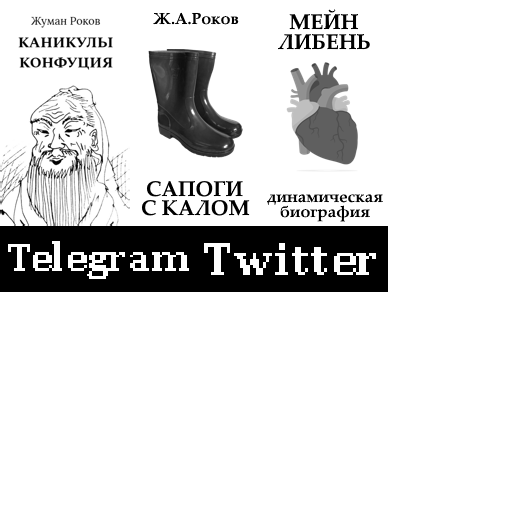
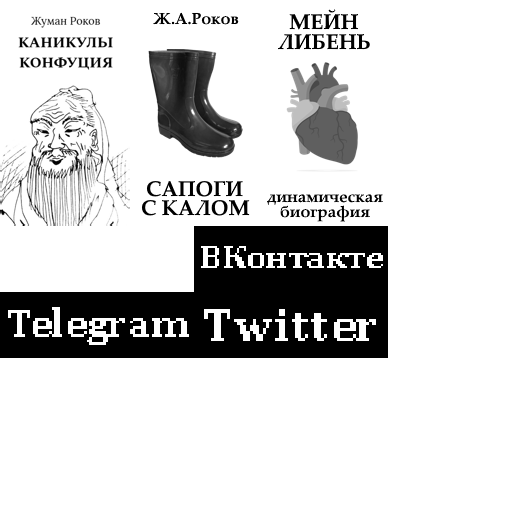
ччцч

Changed region(s): [[0.0, 0.4375, 0.7812, 0.7188]]

diff --git a/data.js b/data.js
@@ -1,1 +1,1 @@
-{"project": [null,"loading",[[0,true,false,false,false,false,false,false,false,false],[1,true,false,false,false,false,false,false,false,false],[2,false,true,true,true,true,true,true,true,false],[3,true,false,false,false,false,false,false,false,false]],[["t0",2,false,[],1,0,null,[["Default",5,false,1,0,false,8454399128852825,[["images/aa_loader-sheet0.png",163,0,0,64,64,1,0.5,0.5,[],[],4]]]],[["Fade",4,230121036078352]],false,true,7565621036311916,[],null],["t1",0,false,[],0,0,null,null,[],false,false,5762705725347726,[],null,[]],["t2",2,false,[],2,0,null,[["Default",5,false,1,0,false,3879650450236021,[["images/star-sheet0.png",92,0,0,4,4,1,0.5,0.5,[],[],4]]]],[["Bullet",5,8341287176116321],["Fade",4,5603860744645581]],false,false,6643320624842571,[],null],["t3",2,false,[],0,0,null,[["Default",30,false,1,0,false,1815826323959346,[["images/my_logo-sheet0.png",574,1,1,128,48,30,0.5,0.5208333134651184,[],[-0.5,0.2968750596046448,-0.419921875,0.4531247615814209,-0.5,0.4374997019767761],3],["images/my_logo-sheet0.png",574,1,51,128,48,1,0.5,0.5208333134651184,[],[-0.5,0.2968750596046448,-0.419921875,0.4531247615814209,-0.5,0.4374997019767761],3],["images/my_logo-sheet0.png",574,1,101,128,48,1,0.5,0.5208333134651184,[],[-0.5,0.2968750596046448,-0.419921875,0.4531247615814209,-0.5,0.4374997019767761],3],["images/my_logo-sheet0.png",574,1,151,128,48,1,0.5,0.5208333134651184,[],[-0.5,0.2968750596046448,-0.419921875,0.4531247615814209,-0.5,0.4374997019767761],3],["images/my_logo-sheet0.png",574,1,201,128,48,1,0.5,0.5208333134651184,[],[-0.5,0.2968750596046448,-0.419921875,0.4531247615814209,-0.5,0.4374997019767761],3],["images/my_logo-sheet1.png",649,1,1,128,48,1,0.5,0.5208333134651184,[],[-0.5,0.2968750596046448,-0.419921875,0.4531247615814209,-0.5,0.4374997019767761],3],["images/my_logo-sheet1.png",649,1,51,128,48,1,0.5,0.5208333134651184,[],[-0.5,0.2968750596046448,-0.419921875,0.4531247615814209,-0.5,0.4374997019767761],3]]]],[],false,false,1648019041967012,[],null],["t4",2,false,[2666308140973207],3,0,null,[["Default",5,false,1,0,false,5642068586678429,[["images/planet-sheet0.png",806,199,1,32,32,1,0.5,0.5,[],[],3]]],["opening",20,false,1,0,false,901120993463062,[["images/planet-sheet0.png",806,1,1,64,32,20,0.5,0.5,[],[-0.25,-0.5,0.25,-0.5,0.25,0.5,-0.25,0.5],3],["images/planet-sheet0.png",806,67,1,64,32,1,0.5,0.5,[],[-0.25,-0.5,0.25,-0.5,0.25,0.5,-0.25,0.5],3],["images/planet-sheet0.png",806,133,1,64,32,1,0.5,0.5,[],[-0.25,-0.5,0.25,-0.5,0.25,0.5,-0.25,0.5],3],["images/planet-sheet0.png",806,1,35,64,32,1,0.5,0.5,[],[-0.25,-0.5,0.25,-0.5,0.25,0.5,-0.25,0.5],3],["images/planet-sheet0.png",806,67,35,64,32,1,0.5,0.5,[],[-0.25,-0.5,0.25,-0.5,0.25,0.5,-0.25,0.5],3],["images/planet-sheet0.png",806,133,35,64,32,10,0.5,0.5,[],[-0.25,-0.5,0.25,-0.5,0.25,0.5,-0.25,0.5],3],["images/planet-sheet0.png",806,1,69,64,32,1,0.5,0.5,[],[-0.25,-0.5,0.25,-0.5,0.25,0.5,-0.25,0.5],3],["images/planet-sheet0.png",806,67,69,64,32,1,0.5,0.5,[],[-0.25,-0.5,0.25,-0.5,0.25,0.5,-0.25,0.5],3],["images/planet-sheet0.png",806,133,69,64,32,1,0.5,0.5,[],[-0.25,-0.5,0.25,-0.5,0.25,0.5,-0.25,0.5],3],["images/planet-sheet0.png",806,1,103,64,32,1,0.5,0.5,[],[-0.25,-0.5,0.25,-0.5,0.25,0.5,-0.25,0.5],3],["images/planet-sheet0.png",806,67,103,64,32,1,0.5,0.5,[],[-0.25,-0.5,0.25,-0.5,0.25,0.5,-0.25,0.5],3],["images/planet-sheet0.png",806,133,103,64,32,1,0.5,0.5,[],[-0.25,-0.5,0.25,-0.5,0.25,0.5,-0.25,0.5],3]]]],[["Rotate",6,7882863819975989],["Fade",4,5588504955080954],["Sine",7,6177368727191248]],false,false,2073488256400279,[],null],["t5",1,false,[],0,0,null,null,[],false,false,783277475132894,[],null,[1]],["t6",2,false,[],4,0,null,[["Default",0,false,1,0,false,1710979898604802,[["images/button-sheet0.png",1041,1,1,160,32,1,0.5,0.5,[],[],3],["images/button-sheet0.png",1041,1,35,160,32,1,0.5,0.5,[],[],3],["images/button-sheet0.png",1041,1,69,160,32,1,0.5,0.5,[],[],3],["images/button-sheet0.png",1041,1,103,160,32,1,0.5,0.5,[],[],3]]]],[["Sine",7,7618187438832246],["Sine2",7,7553923391117555],["Fade",4,9751686245999253],["Sine3",7,1522523508959863]],false,false,6427844642481601,[],null],["t7",2,false,[],1,0,null,[["Default",5,false,1,0,false,4296523469425415,[["images/blackover-sheet0.png",155,0,0,250,250,1,0.5,0.5,[],[],4]]]],[["Fade",4,1413841151768888]],false,false,8796544220060297,[],null],["t8",2,false,[],0,0,null,[["Default",0,false,1,0,false,7951123118877372,[["images/anybg-sheet0.png",15142,515,1,170,182,1,0.5,0.5,[],[],0],["images/anybg-sheet0.png",15142,1,1,512,512,1,0.5,0.5,[],[],0],["images/anybg-sheet0.png",15142,687,1,128,128,1,0,0,[],[],0]]]],[],false,false,4566385857849976,[],null],["t9",2,false,[],0,0,null,[["Default",4,true,1,0,true,5534447228484516,[["images/back-sheet0.png",135,0,0,16,16,1,0.5,0.5,[],[],3],["images/back-sheet1.png",135,0,0,16,16,1,0.5,0.5,[],[],3],["images/back-sheet2.png",136,0,0,16,16,1,0.5,0.5,[],[],3]]]],[],false,false,6681744122020736,[],null],["t10",2,false,[7029265083636054],2,0,null,[["Default",0,false,1,0,false,8631434046410377,[["images/book-sheet1.png",47064,1,1,128,224,1,0.5,0.5,[],[],0],["images/book-sheet1.png",47064,131,1,128,224,1,0.5,0.5,[],[],0],["images/book-sheet1.png",47064,261,1,128,224,1,0.5,0.5,[],[],0],["images/book-sheet0.png",39634,1,131,416,96,1,0.5,0.5,[],[],0],["images/book-sheet0.png",39634,1,229,416,96,1,0.5,0.5,[],[],0],["images/book-sheet0.png",39634,1,327,416,64,1,0.5,0.5,[],[],0],["images/book-sheet0.png",39634,1,1,416,128,1,0.5,0.5,[],[],0],["images/book-sheet0.png",39634,419,56,64,64,1,0.5,0.5,[],[],0],["images/book-sheet0.png",39634,1,393,192,64,1,0.5,0.5,[],[],0],["images/book-sheet0.png",39634,195,393,192,64,1,0.5,0.5,[],[],0],["images/book-sheet1.png",47064,1,227,192,64,1,0.5,0.5,[],[],0],["images/book-sheet1.png",47064,195,227,192,64,1,0.5,0.5,[],[],0],["images/book-sheet0.png",39634,419,1,85,53,1,0,0,[],[],0]]]],[["Sine",7,3089266083000039],["Sine2",7,9152650011442802]],false,false,7613272270891396,[],null],["t11",3,false,[],0,0,null,null,[],false,false,7296777027892499,[],null,[]]],[],[["loading",512,512,true,"loading_sheet",940938462881207,[["Layer 0",0,2088912696170907,true,[0,0,0],false,1,1,1,false,false,1,0,0,[[[256,256,0,160,160,0,0,1,0.5,0.5,0,0,[]],0,0,[],[[0,0,0,1,1]],[0,"Default",0,1]]],[]]],[],[]],["site",512,512,true,"site_sheet",1923343093844538,[["Layer 0",0,7378201580079235,true,[0,0,0],false,0,0,1,false,false,1,0,0,[[[256,256,0,4,4,0,0,1,0.5,0.5,0,0,[]],2,2,[],[[400,0,0,0,0,1],[1,0,3,1,1]],[0,"Default",0,1]]],[]],["Layer 1",1,61628298531695,true,[255,255,255],true,0,0,1,false,false,1,0,0,[[[256,448,0,256,96,0,0,1,0.5,0.5208333134651184,0,0,[]],3,4,[],[],[0,"Default",0,1]]],[]],["Layer 2",2,4696877327140774,true,[255,255,255],true,1,1,1,false,false,1,0,0,[[[254,226,0,256,256,0,0,1,0.5,0.5,0,0,[]],4,5,[[1]],[[50,0],[1,2,0,0,0],[1,1,0,4,0,0,0,32,0]],[0,"Default",0,1]]],[]],["Layer 3",3,2217885186273795,true,[255,255,255],true,1,1,1,false,false,1,0,0,[[[256,160,0,224,64,0,0,1,0.5,0.5,0,0,[]],6,7,[],[[1,0,0,1,1,1,1,4,0],[1,1,0,1,1,1,1,4,0],[1,0.2,0,0,1],[1,5,0,4,1,1,1,2,0]],[1,"Default",0,1]],[[256,256,0,224,64,0,0,1,0.5,0.5,0,0,[]],6,8,[],[[1,0,0,1,1,1,1,4,0],[1,1,0,1,1,1,1,4,0],[1,0.2,0,0,1],[1,5,0,4,1,1,1,2,0]],[1,"Default",1,1]],[[256,64,0,0,64,0,0,1,0.5,0.5,0,0,[]],6,9,[],[[1,0,0,1,1,1,1,4,0],[1,1,0,1,1,1,1,4,0],[1,0.2,0,0,1],[1,5,0,4,1,1,1,2,0]],[1,"Default",2,1]],[[256,352,0,0,64,0,0,1,0.5,0.5,0,0,[]],6,10,[],[[1,0,0,1,1,1,1,4,0],[1,1,0,1,1,1,1,4,0],[1,0.2,0,0,1],[1,5,0,4,1,1,1,2,0]],[1,"Default",3,1]]],[]],["black_screen",4,744652617672437,true,[255,255,255],true,1,1,1,false,false,1,0,0,[[[256,256,0,2143.044677734375,2143.044677734375,0,0,1,0.5,0.5,0,0,[]],7,11,[],[[0,0.5,0,0,0]],[1,"Default",0,1]]],[]]],[],[]],["drugoe",512,512,true,"drugoe_sheet",9708333793712018,[["Layer 0",0,537765921538014,true,[0,0,0],false,1,1,1,false,false,1,0,0,[[[256,128,0,170,182,0,0,1,0.5,0.5,0,0,[]],8,12,[],[],[0,"Default",0,1]]],[]],["ob",1,6459113466757727,true,[255,255,255],true,1,1,1,false,false,1,0,0,[[[256,448,0,64,64,0,0,1,0.5,0.5,0,0,[]],9,13,[],[],[0,"Default",0,1]],[[128,288,0,192,64,0,0,1,0.5,0.5,0,0,[]],10,30,[["https://www.youtube.com/channel/UCy9mYWnveelEagJMlnLX6OQ?view_as=subscriber"]],[[1,0,0,4,1,1,1,4,0],[1,1,0,3,1,1,1,3,0]],[0,"Default",8,1]],[[128,352,0,192,64,0,0,1,0.5,0.5,0,0,[]],10,31,[["https://vk.com/jodead"]],[[1,0,0,4,1,1,1,4,0],[1,1,0,3,1,1,1,3,0]],[0,"Default",9,1]],[[384,288,0,192,64,0,0,1,0.5,0.5,0,0,[]],10,32,[["https://msng.link/tg/ddnvd"]],[[1,0,0,4,1,1,1,4,0],[1,1,0,3,1,1,1,3,0]],[0,"Default",10,1]],[[384,352,0,192,64,0,0,1,0.5,0.5,0,0,[]],10,33,[["https://twitter.com/ddnvd"]],[[1,0,0,4,1,1,1,4,0],[1,1,0,3,1,1,1,3,0]],[0,"Default",11,1]]],[]]],[],[]],["games",512,512,true,"drugoe_sheet",3315019951243166,[["Layer 0",0,3051115471271754,true,[0,0,0],false,1,1,1,false,false,1,0,0,[[[0,0,0,512,512,0,0,1,0,0,0,0,[]],8,28,[],[],[0,"Default",2,1]]],[]],["ob",1,613426991718667,true,[255,255,255],true,1,1,1,false,false,1,0,0,[[[256,448,0,64,64,0,0,1,0.5,0.5,0,0,[]],9,20,[],[],[0,"Default",0,1]],[[256,64,0,224,64,0,0,1,0.5,0.5,0,0,[]],6,19,[],[[1,0,0,1,1,1,1,4,0],[1,1,0,1,1,1,1,4,0],[1,0.2,0,0,1],[1,5,0,4,1,1,1,2,0]],[0,"Default",0,1]],[[256,192,0,416,96,0,0,1,0.5,0.5,0,0,[]],10,21,[["https://ddnvd.ru/zhukarcade/"]],[[1,0,0,4,1,1,1,4,0],[1,1,0,3,1,1,1,3,0]],[0,"Default",3,1]],[[256,320,0,416,96,0,0,1,0.5,0.5,0,0,[]],10,22,[["https://play.google.com/store/search?q=ddnvd"]],[[1,0,0,4,1,1,1,4,0],[1,1,0,3,1,1,1,3,0]],[0,"Default",4,1]],[[384,416,0,96,64,0,0,1,0,0,0,0,[]],10,34,[["https://ddnvd.ru/old/"]],[[1,0,0,4,1,1,1,4,0],[1,1,0,3,1,1,1,3,0]],[0,"Default",12,1]]],[]]],[],[]],["music",512,512,true,"drugoe_sheet",8711086432472418,[["Layer 0",0,439642726240153,true,[0,0,0],false,1,1,1,false,false,1,0,0,[[[256,256,0,512,512,0,0,1,0.5,0.5,0,0,[]],8,29,[],[],[0,"Default",1,1]]],[]],["ob",1,8485500428259198,true,[255,255,255],true,1,1,1,false,false,1,0,0,[[[256,448,0,64,64,0,0,1,0.5,0.5,0,0,[]],9,23,[],[],[0,"Default",0,1]],[[256,64,0,224,64,0,0,1,0.5,0.5,0,0,[]],6,24,[],[[1,0,0,1,1,1,1,4,0],[1,1,0,1,1,1,1,4,0],[1,0.2,0,0,1],[1,5,0,4,1,1,1,2,0]],[0,"Default",1,1]],[[256,208,0,416,128,0,0,1,0.5,0.5,0,0,[]],10,25,[["https://vk.com/deafproject"]],[[1,0,0,4,1,1,1,4,0],[1,1,0,3,1,1,1,3,0]],[0,"Default",6,1]],[[256,336,0,416,64,0,0,1,0.5,0.5,0,0,[]],10,26,[["https://pastebin.com/9dRAHfKJ"]],[[1,0,0,4,1,1,1,4,0],[1,1,0,3,1,1,1,3,0]],[0,"Default",5,1]]],[]]],[],[]],["books",512,512,true,"drugoe_sheet",8559596989540712,[["Layer 0",0,3878335870959353,true,[0,0,0],false,1,1,1,false,false,1,0,0,[[[256,256,0,512,512,0,0,1,0.5,0.5,0,0,[]],8,3,[],[],[0,"Default",1,1]]],[]],["ob",1,5419703381973998,true,[255,255,255],true,1,1,1,false,false,1,0,0,[[[256,448,0,64,64,0,0,1,0.5,0.5,0,0,[]],9,14,[],[],[0,"Default",0,1]],[[256,64,0,224,64,0,0,1,0.5,0.5,0,0,[]],6,15,[],[[1,0,0,1,1,1,1,4,0],[1,1,0,1,1,1,1,4,0],[1,0.2,0,0,1],[1,5,0,4,1,1,1,2,0]],[0,"Default",2,1]],[[96,256,0,128,224,0,0,1,0.5,0.5,0,0,[]],10,16,[["https://docs.google.com/document/d/13rNceuEguCrKBW3y0RdxGLph8T_nc5gm9YEI_00nYrw/edit"]],[[1,0,0,4,1,1,1,4,0],[1,1,0,3,1,1,1,3,0]],[0,"Default",0,1]],[[256,256,0,128,224,0,0,1,0.5,0.5,0,0,[]],10,17,[["https://docs.google.com/document/d/1WUNIYRmilnUhSXODjmWDQ0yRBGG9C_SpARjOsBhil-c/edit?usp=sharing"]],[[1,0,0,4,1,1,1,4,0],[1,1,0,3,1,1,1,3,0]],[0,"Default",1,1]],[[416,256,0,128,224,0,0,1,0.5,0.5,0,0,[]],10,18,[["https://docs.google.com/document/d/1-B_XW2O_FJdJJEQwsfiWchsW8DDG_PyH-Mn0FzfeeZ0/edit?usp=sharing"]],[[1,0,0,4,1,1,1,4,0],[1,1,0,3,1,1,1,3,0]],[0,"Default",2,1]],[[448,448,0,64,64,0,0,1,0.5,0.5,0,0,[]],10,27,[["https://vk.com/public149256420"]],[[1,0,0,4,1,1,1,4,0],[1,1,0,3,1,1,1,3,0]],[0,"Default",7,1]]],[]]],[],[]]],[["loading_sheet",[[0,null,false,null,9426138628011278,[[-1,8,null,1,false,false,false,6682472123666694,false]],[[0,9,"Fade",9833363571418112,false],[-1,10,null,5303707077641885,false,[[0,[0,1]]]],[-1,11,null,5774534960747871,false,[[6,"site"]]]]]]],["site_sheet",[[0,null,false,null,7434988319287601,[[-1,12,null,0,false,false,false,33561280694541,false,[[0,[1,0.1]]]]],[[-1,13,null,6078444760172201,false,[[4,2],[5,[0,0]],[0,[0,256]],[0,[0,256]]]],[2,14,"Bullet",3391096075051863,false,[[0,[19,15,[[0,360]]]]]],[3,16,null,7241134128946158,false,[[0,[5,[19,17,[[0,1]]],[0,64]]]]]]],[0,null,false,null,2158996859578908,[[5,18,null,1,false,false,false,8102944554207508,false,[[4,4]]],[4,19,null,0,false,false,false,4280542000655148,false,[[10,0],[8,0],[7,[0,1]]]]],[[4,20,null,334444500106774,false,[[10,0],[7,[0,0]]]],[4,21,"Rotate",4900428004685146,false,[[0,[0,0]]]],[4,22,null,9425523277740117,false,[[1,[2,"opening"]],[3,1]]],[4,23,null,7859302191913257,false,[[0,[19,24,[[20,4,25,false,null]]]]]]]],[0,null,false,null,8381782072302254,[[-1,12,null,0,false,false,false,7051222880429492,false,[[0,[1,0.01]]]],[4,19,null,0,false,false,false,3499860151452663,false,[[10,0],[8,0],[7,[0,0]]]],[4,26,null,0,false,true,false,1906479789867394,false,[[0,[0,-6]],[0,[0,6]]]]],[[4,27,null,9715932026418031,false,[[0,[0,4]],[0,[0,0]]]]]],[0,null,false,null,4655002903093343,[[4,28,null,0,false,false,false,2950527411150826,false,[[8,0],[0,[0,4]]]]],[[6,29,null,6343369461174233,false,[[3,1]]],[6,30,"Fade",863771168803267,false]]],[0,null,false,null,4366016439987548,[[5,18,null,1,false,false,false,5051901105976351,false,[[4,6]]],[6,31,null,0,false,false,false,9442970019634302,false],[4,19,null,0,false,false,false,663454159335689,false,[[10,0],[8,0],[7,[0,0]]]]],[[7,30,"Fade",627226503304119,false],[7,29,null,4100729938978089,false,[[3,1]]],[4,20,null,9038558784550612,false,[[10,0],[7,[0,2]]]]],[[0,null,false,null,8969205918949026,[[6,28,null,0,false,false,false,1591198244832171,false,[[8,0],[0,[0,3]]]]],[[-1,10,null,3802870171153272,false,[[0,[1,0.5]]]],[-1,11,null,117448214542048,false,[[6,"drugoe"]]]]],[0,null,false,null,3921692506869566,[[6,28,null,0,false,false,false,2740483348972805,false,[[8,0],[0,[0,2]]]]],[[-1,10,null,9227625676143564,false,[[0,[1,0.5]]]],[-1,11,null,4319171550472879,false,[[6,"books"]]]]],[0,null,false,null,4033347003165066,[[6,28,null,0,false,false,false,7656841684129699,false,[[8,0],[0,[0,0]]]]],[[-1,10,null,9741920314818663,false,[[0,[1,0.5]]]],[-1,11,null,9545014982045556,false,[[6,"games"]]]]],[0,null,false,null,5277949849603006,[[6,28,null,0,false,false,false,3696214006104619,false,[[8,0],[0,[0,1]]]]],[[-1,10,null,8405723917473309,false,[[0,[1,0.5]]]],[-1,11,null,9172687073533843,false,[[6,"music"]]]]]]],[0,null,false,null,5512390662672317,[[5,32,null,1,false,false,false,254589214815326,false,[[4,3]]]],[],[[0,null,false,null,3337054635590363,[[6,28,null,0,false,false,false,3560435136007253,false,[[8,0],[0,[0,2]]]]],[[6,33,null,7055639012946563,false,[[0,[0,224]]]]]],[0,null,false,null,2969390087457419,[[6,28,null,0,false,false,false,1659078177607629,false,[[8,0],[0,[0,3]]]]],[[6,33,null,8322442532837875,false,[[0,[0,224]]]]]]]],[0,null,false,null,1525298088793277,[],[]]]],["drugoe_sheet",[[0,null,false,null,353514858777968,[[5,18,null,1,false,false,false,4422140143667807,false,[[4,9]]]],[[-1,11,null,1056858561749537,false,[[6,"site"]]]]],[0,null,false,null,5790980359856458,[[5,18,null,1,false,false,false,8279613062296092,false,[[4,10]]]],[[1,34,null,9585649882638199,false,[[1,[21,10,true,null,0]],[3,0]]]]]]]],[],"media/",false,512,512,3,true,false,true,"1.1",true,true,3,0,36,false,true,1,true,"ddnvd homepage",0,[]]}
+{"project": [null,"loading",[[0,true,false,false,false,false,false,false,false,false],[1,true,false,false,false,false,false,false,false,false],[2,true,false,false,false,false,false,false,false,false],[3,false,true,true,true,true,true,true,true,false]],[["t0",3,false,[],1,0,null,[["Default",5,false,1,0,false,8454399128852825,[["images/aa_loader-sheet0.png",163,0,0,64,64,1,0.5,0.5,[],[],4]]]],[["Fade",4,230121036078352]],false,true,7565621036311916,[],null],["t1",1,false,[],0,0,null,null,[],false,false,5762705725347726,[],null,[]],["t2",3,false,[],2,0,null,[["Default",5,false,1,0,false,3879650450236021,[["images/star-sheet0.png",92,0,0,4,4,1,0.5,0.5,[],[],4]]]],[["Bullet",5,8341287176116321],["Fade",4,5603860744645581]],false,false,6643320624842571,[],null],["t3",3,false,[],0,0,null,[["Default",30,false,1,0,false,1815826323959346,[["images/my_logo-sheet0.png",574,1,1,128,48,30,0.5,0.5208333134651184,[],[-0.5,0.2968747019767761,-0.4199219048023224,0.4531247019767761,-0.5,0.4374997019767761],3],["images/my_logo-sheet0.png",574,1,51,128,48,1,0.5,0.5208333134651184,[],[-0.5,0.2968747019767761,-0.4199219048023224,0.4531247019767761,-0.5,0.4374997019767761],3],["images/my_logo-sheet0.png",574,1,101,128,48,1,0.5,0.5208333134651184,[],[-0.5,0.2968747019767761,-0.4199219048023224,0.4531247019767761,-0.5,0.4374997019767761],3],["images/my_logo-sheet0.png",574,1,151,128,48,1,0.5,0.5208333134651184,[],[-0.5,0.2968747019767761,-0.4199219048023224,0.4531247019767761,-0.5,0.4374997019767761],3],["images/my_logo-sheet0.png",574,1,201,128,48,1,0.5,0.5208333134651184,[],[-0.5,0.2968747019767761,-0.4199219048023224,0.4531247019767761,-0.5,0.4374997019767761],3],["images/my_logo-sheet1.png",649,1,1,128,48,1,0.5,0.5208333134651184,[],[-0.5,0.2968747019767761,-0.4199219048023224,0.4531247019767761,-0.5,0.4374997019767761],3],["images/my_logo-sheet1.png",649,1,51,128,48,1,0.5,0.5208333134651184,[],[-0.5,0.2968747019767761,-0.4199219048023224,0.4531247019767761,-0.5,0.4374997019767761],3]]]],[],false,false,1648019041967012,[],null],["t4",3,false,[2666308140973207],3,0,null,[["Default",5,false,1,0,false,5642068586678429,[["images/planet-sheet0.png",806,199,1,32,32,1,0.5,0.5,[],[],3]]],["opening",20,false,1,0,false,901120993463062,[["images/planet-sheet0.png",806,1,1,64,32,20,0.5,0.5,[],[-0.25,-0.5,0.25,-0.5,0.25,0.5,-0.25,0.5],3],["images/planet-sheet0.png",806,67,1,64,32,1,0.5,0.5,[],[-0.25,-0.5,0.25,-0.5,0.25,0.5,-0.25,0.5],3],["images/planet-sheet0.png",806,133,1,64,32,1,0.5,0.5,[],[-0.25,-0.5,0.25,-0.5,0.25,0.5,-0.25,0.5],3],["images/planet-sheet0.png",806,1,35,64,32,1,0.5,0.5,[],[-0.25,-0.5,0.25,-0.5,0.25,0.5,-0.25,0.5],3],["images/planet-sheet0.png",806,67,35,64,32,1,0.5,0.5,[],[-0.25,-0.5,0.25,-0.5,0.25,0.5,-0.25,0.5],3],["images/planet-sheet0.png",806,133,35,64,32,10,0.5,0.5,[],[-0.25,-0.5,0.25,-0.5,0.25,0.5,-0.25,0.5],3],["images/planet-sheet0.png",806,1,69,64,32,1,0.5,0.5,[],[-0.25,-0.5,0.25,-0.5,0.25,0.5,-0.25,0.5],3],["images/planet-sheet0.png",806,67,69,64,32,1,0.5,0.5,[],[-0.25,-0.5,0.25,-0.5,0.25,0.5,-0.25,0.5],3],["images/planet-sheet0.png",806,133,69,64,32,1,0.5,0.5,[],[-0.25,-0.5,0.25,-0.5,0.25,0.5,-0.25,0.5],3],["images/planet-sheet0.png",806,1,103,64,32,1,0.5,0.5,[],[-0.25,-0.5,0.25,-0.5,0.25,0.5,-0.25,0.5],3],["images/planet-sheet0.png",806,67,103,64,32,1,0.5,0.5,[],[-0.25,-0.5,0.25,-0.5,0.25,0.5,-0.25,0.5],3],["images/planet-sheet0.png",806,133,103,64,32,1,0.5,0.5,[],[-0.25,-0.5,0.25,-0.5,0.25,0.5,-0.25,0.5],3]]]],[["Rotate",6,7882863819975989],["Fade",4,5588504955080954],["Sine",7,6177368727191248]],false,false,2073488256400279,[],null],["t5",0,false,[],0,0,null,null,[],false,false,783277475132894,[],null,[1]],["t6",3,false,[],4,0,null,[["Default",0,false,1,0,false,1710979898604802,[["images/button-sheet0.png",1003,1,1,160,32,1,0.5,0.5,[],[],3],["images/button-sheet0.png",1003,1,35,160,32,1,0.5,0.5,[],[],3],["images/button-sheet0.png",1003,1,69,160,32,1,0.5,0.5,[],[],3],["images/button-sheet0.png",1003,1,103,160,32,1,0.5,0.5,[],[],3]]]],[["Sine",7,7618187438832246],["Sine2",7,7553923391117555],["Fade",4,9751686245999253],["Sine3",7,1522523508959863]],false,false,6427844642481601,[],null],["t7",3,false,[],1,0,null,[["Default",5,false,1,0,false,4296523469425415,[["images/blackover-sheet0.png",155,0,0,250,250,1,0.5,0.5,[],[],4]]]],[["Fade",4,1413841151768888]],false,false,8796544220060297,[],null],["t8",3,false,[],0,0,null,[["Default",0,false,1,0,false,7951123118877372,[["images/anybg-sheet0.png",15142,515,1,170,182,1,0.5,0.5,[],[],0],["images/anybg-sheet0.png",15142,1,1,512,512,1,0.5,0.5,[],[],0],["images/anybg-sheet0.png",15142,687,1,128,128,1,0,0,[],[],0]]]],[],false,false,4566385857849976,[],null],["t9",3,false,[],0,0,null,[["Default",4,true,1,0,true,5534447228484516,[["images/back-sheet0.png",135,0,0,16,16,1,0.5,0.5,[],[],3],["images/back-sheet1.png",135,0,0,16,16,1,0.5,0.5,[],[],3],["images/back-sheet2.png",136,0,0,16,16,1,0.5,0.5,[],[],3]]]],[],false,false,6681744122020736,[],null],["t10",3,false,[7029265083636054],2,0,null,[["Default",0,false,1,0,false,8631434046410377,[["images/book-sheet1.png",47682,1,1,128,224,1,0.5,0.5,[],[],0],["images/book-sheet1.png",47682,131,1,128,224,1,0.5,0.5,[],[],0],["images/book-sheet1.png",47682,261,1,128,224,1,0.5,0.5,[],[],0],["images/book-sheet0.png",40267,1,131,416,96,1,0.5,0.5,[],[],0],["images/book-sheet0.png",40267,1,229,416,96,1,0.5,0.5,[],[],0],["images/book-sheet0.png",40267,1,327,416,64,1,0.5,0.5,[],[],0],["images/book-sheet0.png",40267,1,1,416,128,1,0.5,0.5,[],[],0],["images/book-sheet0.png",40267,419,56,64,64,1,0.5,0.5,[],[],0],["images/book-sheet1.png",47682,1,227,192,64,1,0.5,0.5,[],[],0],["images/book-sheet1.png",47682,195,227,192,64,1,0.5,0.5,[],[],0],["images/book-sheet1.png",47682,1,293,192,64,1,0.5,0.5,[],[],0],["images/book-sheet1.png",47682,195,293,192,64,1,0.5,0.5,[],[],0],["images/book-sheet0.png",40267,419,1,85,53,1,0,0,[],[],0],["images/book-sheet0.png",40267,1,393,416,64,1,0.5,0.5,[],[],0]]]],[["Sine",7,3089266083000039],["Sine2",7,9152650011442802]],false,false,7613272270891396,[],null],["t11",2,false,[],0,0,null,null,[],false,false,7296777027892499,[],null,[]]],[],[["loading",512,512,true,"loading_sheet",940938462881207,[["Layer 0",0,2088912696170907,true,[0,0,0],false,1,1,1,false,false,1,0,0,[[[256,256,0,160,160,0,0,1,0.5,0.5,0,0,[]],0,0,[],[[0,0,0,1,1]],[0,"Default",0,1]]],[]]],[],[]],["site",512,512,true,"site_sheet",1923343093844538,[["Layer 0",0,7378201580079235,true,[0,0,0],false,0,0,1,false,false,1,0,0,[[[256,256,0,4,4,0,0,1,0.5,0.5,0,0,[]],2,2,[],[[400,0,0,0,0,1],[1,0,3,1,1]],[0,"Default",0,1]]],[]],["Layer 1",1,61628298531695,true,[255,255,255],true,0,0,1,false,false,1,0,0,[[[256,448,0,256,96,0,0,1,0.5,0.5208333134651184,0,0,[]],3,4,[],[],[0,"Default",0,1]]],[]],["Layer 2",2,4696877327140774,true,[255,255,255],true,1,1,1,false,false,1,0,0,[[[254,226,0,256,256,0,0,1,0.5,0.5,0,0,[]],4,5,[[1]],[[50,0],[1,2,0,0,0],[1,1,0,4,0,0,0,32,0]],[0,"Default",0,1]]],[]],["Layer 3",3,2217885186273795,true,[255,255,255],true,1,1,1,false,false,1,0,0,[[[256,160,0,224,64,0,0,1,0.5,0.5,0,0,[]],6,7,[],[[1,0,0,1,1,1,1,4,0],[1,1,0,1,1,1,1,4,0],[1,0.2,0,0,1],[1,5,0,4,1,1,1,2,0]],[1,"Default",0,1]],[[256,256,0,224,64,0,0,1,0.5,0.5,0,0,[]],6,8,[],[[1,0,0,1,1,1,1,4,0],[1,1,0,1,1,1,1,4,0],[1,0.2,0,0,1],[1,5,0,4,1,1,1,2,0]],[1,"Default",1,1]],[[256,64,0,0,64,0,0,1,0.5,0.5,0,0,[]],6,9,[],[[1,0,0,1,1,1,1,4,0],[1,1,0,1,1,1,1,4,0],[1,0.2,0,0,1],[1,5,0,4,1,1,1,2,0]],[1,"Default",2,1]],[[256,352,0,0,64,0,0,1,0.5,0.5,0,0,[]],6,10,[],[[1,0,0,1,1,1,1,4,0],[1,1,0,1,1,1,1,4,0],[1,0.2,0,0,1],[1,5,0,4,1,1,1,2,0]],[1,"Default",3,1]]],[]],["black_screen",4,744652617672437,true,[255,255,255],true,1,1,1,false,false,1,0,0,[[[256,256,0,2143.044677734375,2143.044677734375,0,0,1,0.5,0.5,0,0,[]],7,11,[],[[0,0.5,0,0,0]],[1,"Default",0,1]]],[]]],[],[]],["drugoe",512,512,true,"drugoe_sheet",9708333793712018,[["Layer 0",0,537765921538014,true,[0,0,0],false,1,1,1,false,false,1,0,0,[[[256,128,0,170,182,0,0,1,0.5,0.5,0,0,[]],8,12,[],[],[0,"Default",0,1]]],[]],["ob",1,6459113466757727,true,[255,255,255],true,1,1,1,false,false,1,0,0,[[[256,448,0,64,64,0,0,1,0.5,0.5,0,0,[]],9,13,[],[],[0,"Default",0,1]],[[128,288,0,192,64,0,0,1,0.5,0.5,0,0,[]],10,30,[["https://www.youtube.com/channel/UCy9mYWnveelEagJMlnLX6OQ?view_as=subscriber"]],[[1,0,0,4,1,1,1,4,0],[1,1,0,3,1,1,1,3,0]],[0,"Default",8,1]],[[128,352,0,192,64,0,0,1,0.5,0.5,0,0,[]],10,31,[["https://vk.com/jodead"]],[[1,0,0,4,1,1,1,4,0],[1,1,0,3,1,1,1,3,0]],[0,"Default",9,1]],[[384,288,0,192,64,0,0,1,0.5,0.5,0,0,[]],10,32,[["https://msng.link/tg/ddnvd"]],[[1,0,0,4,1,1,1,4,0],[1,1,0,3,1,1,1,3,0]],[0,"Default",10,1]],[[384,352,0,192,64,0,0,1,0.5,0.5,0,0,[]],10,33,[["https://twitter.com/ddnvd"]],[[1,0,0,4,1,1,1,4,0],[1,1,0,3,1,1,1,3,0]],[0,"Default",11,1]]],[]]],[],[]],["games",512,512,true,"drugoe_sheet",3315019951243166,[["Layer 0",0,3051115471271754,true,[0,0,0],false,1,1,1,false,false,1,0,0,[[[0,0,0,512,512,0,0,1,0,0,0,0,[]],8,28,[],[],[0,"Default",2,1]]],[]],["ob",1,613426991718667,true,[255,255,255],true,1,1,1,false,false,1,0,0,[[[256,448,0,64,64,0,0,1,0.5,0.5,0,0,[]],9,20,[],[],[0,"Default",0,1]],[[256,64,0,224,64,0,0,1,0.5,0.5,0,0,[]],6,19,[],[[1,0,0,1,1,1,1,4,0],[1,1,0,1,1,1,1,4,0],[1,0.2,0,0,1],[1,5,0,4,1,1,1,2,0]],[0,"Default",0,1]],[[256,192,0,416,96,0,0,1,0.5,0.5,0,0,[]],10,21,[["https://ddnvd.ru/zhukarcade/"]],[[1,0,0,4,1,1,1,4,0],[1,1,0,3,1,1,1,3,0]],[0,"Default",3,1]],[[256,320,0,416,96,0,0,1,0.5,0.5,0,0,[]],10,22,[["https://play.google.com/store/search?q=ddnvd"]],[[1,0,0,4,1,1,1,4,0],[1,1,0,3,1,1,1,3,0]],[0,"Default",4,1]],[[384,416,0,96,64,0,0,1,0,0,0,0,[]],10,34,[["https://ddnvd.ru/old/"]],[[1,0,0,4,1,1,1,4,0],[1,1,0,3,1,1,1,3,0]],[0,"Default",12,1]]],[]]],[],[]],["music",512,512,true,"drugoe_sheet",8711086432472418,[["Layer 0",0,439642726240153,true,[0,0,0],false,1,1,1,false,false,1,0,0,[[[256,256,0,512,512,0,0,1,0.5,0.5,0,0,[]],8,29,[],[],[0,"Default",1,1]]],[]],["ob",1,8485500428259198,true,[255,255,255],true,1,1,1,false,false,1,0,0,[[[256,448,0,64,64,0,0,1,0.5,0.5,0,0,[]],9,23,[],[],[0,"Default",0,1]],[[256,64,0,224,64,0,0,1,0.5,0.5,0,0,[]],6,24,[],[[1,0,0,1,1,1,1,4,0],[1,1,0,1,1,1,1,4,0],[1,0.2,0,0,1],[1,5,0,4,1,1,1,2,0]],[0,"Default",1,1]],[[256,192,0,416,128,0,0,1,0.5,0.5,0,0,[]],10,25,[["https://vk.com/deafproject"]],[[1,0,0,4,1,1,1,4,0],[1,1,0,3,1,1,1,3,0]],[0,"Default",6,1]],[[256,288,0,416,64,0,0,1,0.5,0.5,0,0,[]],10,26,[["https://pastebin.com/9dRAHfKJ"]],[[1,0,0,4,1,1,1,4,0],[1,1,0,3,1,1,1,3,0]],[0,"Default",5,1]],[[256,352,0,416,64,0,0,1,0.5,0.5,0,0,[]],10,36,[["https://vk.com/public190975063"]],[[1,0,0,4,1,1,1,4,0],[1,1,0,3,1,1,1,3,0]],[0,"Default",13,1]]],[]]],[],[]],["books",512,512,true,"drugoe_sheet",8559596989540712,[["Layer 0",0,3878335870959353,true,[0,0,0],false,1,1,1,false,false,1,0,0,[[[256,256,0,512,512,0,0,1,0.5,0.5,0,0,[]],8,3,[],[],[0,"Default",1,1]]],[]],["ob",1,5419703381973998,true,[255,255,255],true,1,1,1,false,false,1,0,0,[[[256,448,0,64,64,0,0,1,0.5,0.5,0,0,[]],9,14,[],[],[0,"Default",0,1]],[[256,64,0,224,64,0,0,1,0.5,0.5,0,0,[]],6,15,[],[[1,0,0,1,1,1,1,4,0],[1,1,0,1,1,1,1,4,0],[1,0.2,0,0,1],[1,5,0,4,1,1,1,2,0]],[0,"Default",2,1]],[[96,256,0,128,224,0,0,1,0.5,0.5,0,0,[]],10,16,[["https://docs.google.com/document/d/13rNceuEguCrKBW3y0RdxGLph8T_nc5gm9YEI_00nYrw/edit"]],[[1,0,0,4,1,1,1,4,0],[1,1,0,3,1,1,1,3,0]],[0,"Default",0,1]],[[256,256,0,128,224,0,0,1,0.5,0.5,0,0,[]],10,17,[["https://docs.google.com/document/d/1WUNIYRmilnUhSXODjmWDQ0yRBGG9C_SpARjOsBhil-c/edit?usp=sharing"]],[[1,0,0,4,1,1,1,4,0],[1,1,0,3,1,1,1,3,0]],[0,"Default",1,1]],[[416,256,0,128,224,0,0,1,0.5,0.5,0,0,[]],10,18,[["https://docs.google.com/document/d/1-B_XW2O_FJdJJEQwsfiWchsW8DDG_PyH-Mn0FzfeeZ0/edit?usp=sharing"]],[[1,0,0,4,1,1,1,4,0],[1,1,0,3,1,1,1,3,0]],[0,"Default",2,1]],[[448,448,0,64,64,0,0,1,0.5,0.5,0,0,[]],10,27,[["https://vk.com/public149256420"]],[[1,0,0,4,1,1,1,4,0],[1,1,0,3,1,1,1,3,0]],[0,"Default",7,1]]],[]]],[],[]]],[["loading_sheet",[[0,null,false,null,9426138628011278,[[-1,8,null,1,false,false,false,6682472123666694,false]],[[0,9,"Fade",9833363571418112,false],[-1,10,null,5303707077641885,false,[[0,[0,1]]]],[-1,11,null,5774534960747871,false,[[6,"site"]]]]]]],["site_sheet",[[0,null,false,null,7434988319287601,[[-1,12,null,0,false,false,false,33561280694541,false,[[0,[1,0.1]]]]],[[-1,13,null,6078444760172201,false,[[4,2],[5,[0,0]],[0,[0,256]],[0,[0,256]]]],[2,14,"Bullet",3391096075051863,false,[[0,[19,15,[[0,360]]]]]],[3,16,null,7241134128946158,false,[[0,[5,[19,17,[[0,1]]],[0,64]]]]]]],[0,null,false,null,2158996859578908,[[5,18,null,1,false,false,false,8102944554207508,false,[[4,4]]],[4,19,null,0,false,false,false,4280542000655148,false,[[10,0],[8,0],[7,[0,1]]]]],[[4,20,null,334444500106774,false,[[10,0],[7,[0,0]]]],[4,21,"Rotate",4900428004685146,false,[[0,[0,0]]]],[4,22,null,9425523277740117,false,[[1,[2,"opening"]],[3,1]]],[4,23,null,7859302191913257,false,[[0,[19,24,[[20,4,25,false,null]]]]]]]],[0,null,false,null,8381782072302254,[[-1,12,null,0,false,false,false,7051222880429492,false,[[0,[1,0.01]]]],[4,19,null,0,false,false,false,3499860151452663,false,[[10,0],[8,0],[7,[0,0]]]],[4,26,null,0,false,true,false,1906479789867394,false,[[0,[0,-6]],[0,[0,6]]]]],[[4,27,null,9715932026418031,false,[[0,[0,4]],[0,[0,0]]]]]],[0,null,false,null,4655002903093343,[[4,28,null,0,false,false,false,2950527411150826,false,[[8,0],[0,[0,4]]]]],[[6,29,null,6343369461174233,false,[[3,1]]],[6,30,"Fade",863771168803267,false]]],[0,null,false,null,4366016439987548,[[5,18,null,1,false,false,false,5051901105976351,false,[[4,6]]],[6,31,null,0,false,false,false,9442970019634302,false],[4,19,null,0,false,false,false,663454159335689,false,[[10,0],[8,0],[7,[0,0]]]]],[[7,30,"Fade",627226503304119,false],[7,29,null,4100729938978089,false,[[3,1]]],[4,20,null,9038558784550612,false,[[10,0],[7,[0,2]]]]],[[0,null,false,null,8969205918949026,[[6,28,null,0,false,false,false,1591198244832171,false,[[8,0],[0,[0,3]]]]],[[-1,10,null,3802870171153272,false,[[0,[1,0.5]]]],[-1,11,null,117448214542048,false,[[6,"drugoe"]]]]],[0,null,false,null,3921692506869566,[[6,28,null,0,false,false,false,2740483348972805,false,[[8,0],[0,[0,2]]]]],[[-1,10,null,9227625676143564,false,[[0,[1,0.5]]]],[-1,11,null,4319171550472879,false,[[6,"books"]]]]],[0,null,false,null,4033347003165066,[[6,28,null,0,false,false,false,7656841684129699,false,[[8,0],[0,[0,0]]]]],[[-1,10,null,9741920314818663,false,[[0,[1,0.5]]]],[-1,11,null,9545014982045556,false,[[6,"games"]]]]],[0,null,false,null,5277949849603006,[[6,28,null,0,false,false,false,3696214006104619,false,[[8,0],[0,[0,1]]]]],[[-1,10,null,8405723917473309,false,[[0,[1,0.5]]]],[-1,11,null,9172687073533843,false,[[6,"music"]]]]]]],[0,null,false,null,5512390662672317,[[5,32,null,1,false,false,false,254589214815326,false,[[4,3]]]],[],[[0,null,false,null,3337054635590363,[[6,28,null,0,false,false,false,3560435136007253,false,[[8,0],[0,[0,2]]]]],[[6,33,null,7055639012946563,false,[[0,[0,224]]]]]],[0,null,false,null,2969390087457419,[[6,28,null,0,false,false,false,1659078177607629,false,[[8,0],[0,[0,3]]]]],[[6,33,null,8322442532837875,false,[[0,[0,224]]]]]]]],[0,null,false,null,1525298088793277,[],[]]]],["drugoe_sheet",[[0,null,false,null,353514858777968,[[5,18,null,1,false,false,false,4422140143667807,false,[[4,9]]]],[[-1,11,null,1056858561749537,false,[[6,"site"]]]]],[0,null,false,null,5790980359856458,[[5,18,null,1,false,false,false,8279613062296092,false,[[4,10]]]],[[1,34,null,9585649882638199,false,[[1,[21,10,true,null,0]],[3,0]]]]]]]],[],"media/",false,512,512,3,true,false,true,"1.1",true,true,3,0,37,false,true,1,true,"ddnvd homepage",0,[]]}

diff --git a/c2runtime.js b/c2runtime.js
@@ -18898,10 +18898,10 @@ cr.behaviors.Sin = function(runtime)
 	behaviorProto.exps = new Exps();
 }());
 cr.getObjectRefTable = function () { return [
-	cr.plugins_.Browser,
 	cr.plugins_.Touch,
-	cr.plugins_.Sprite,
+	cr.plugins_.Browser,
 	cr.plugins_.Keyboard,
+	cr.plugins_.Sprite,
 	cr.behaviors.Fade,
 	cr.behaviors.Bullet,
 	cr.behaviors.Rotate,
